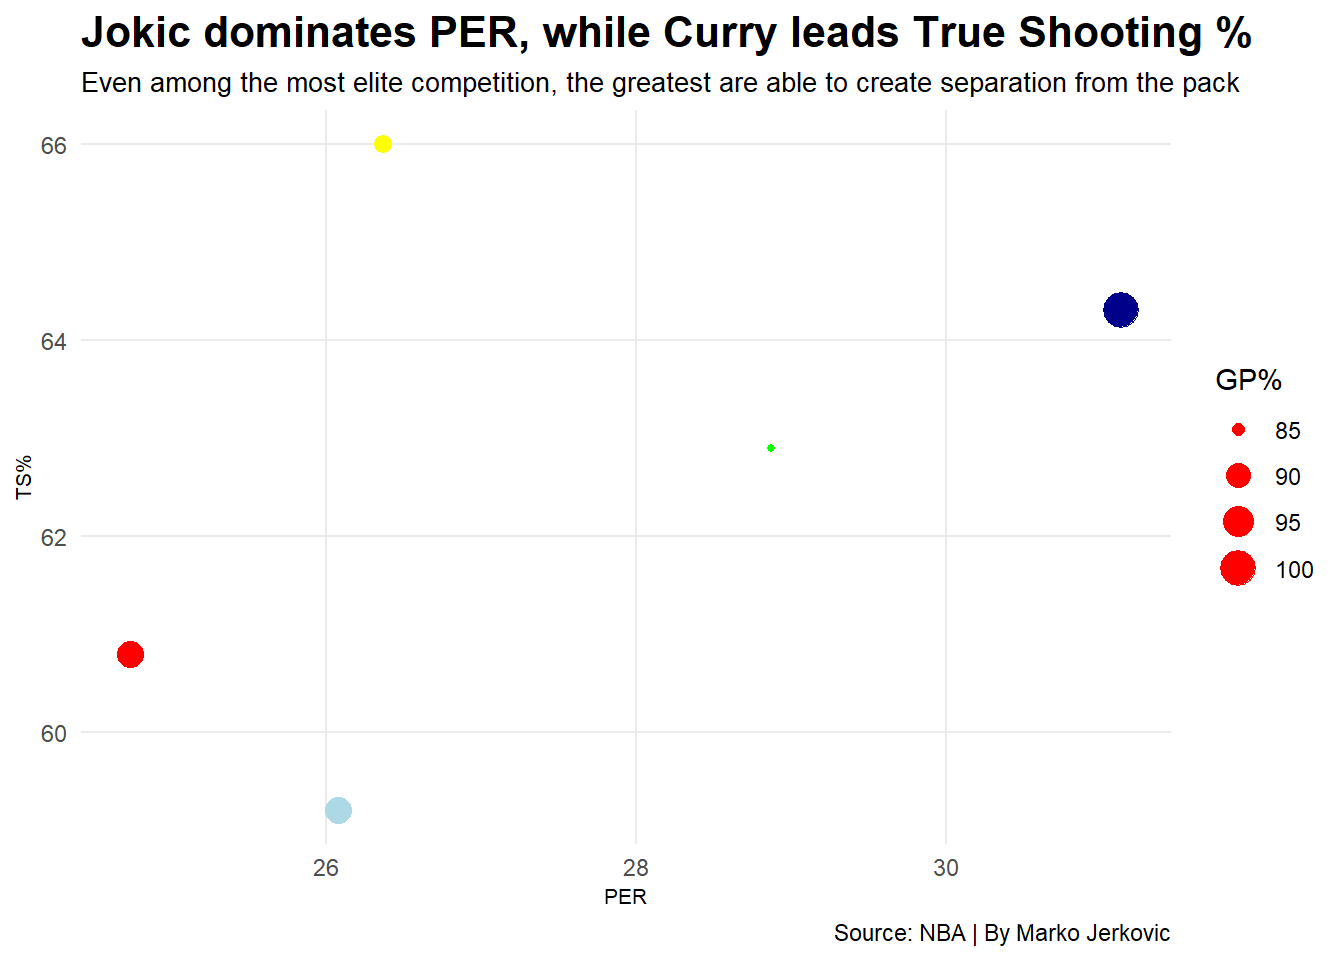
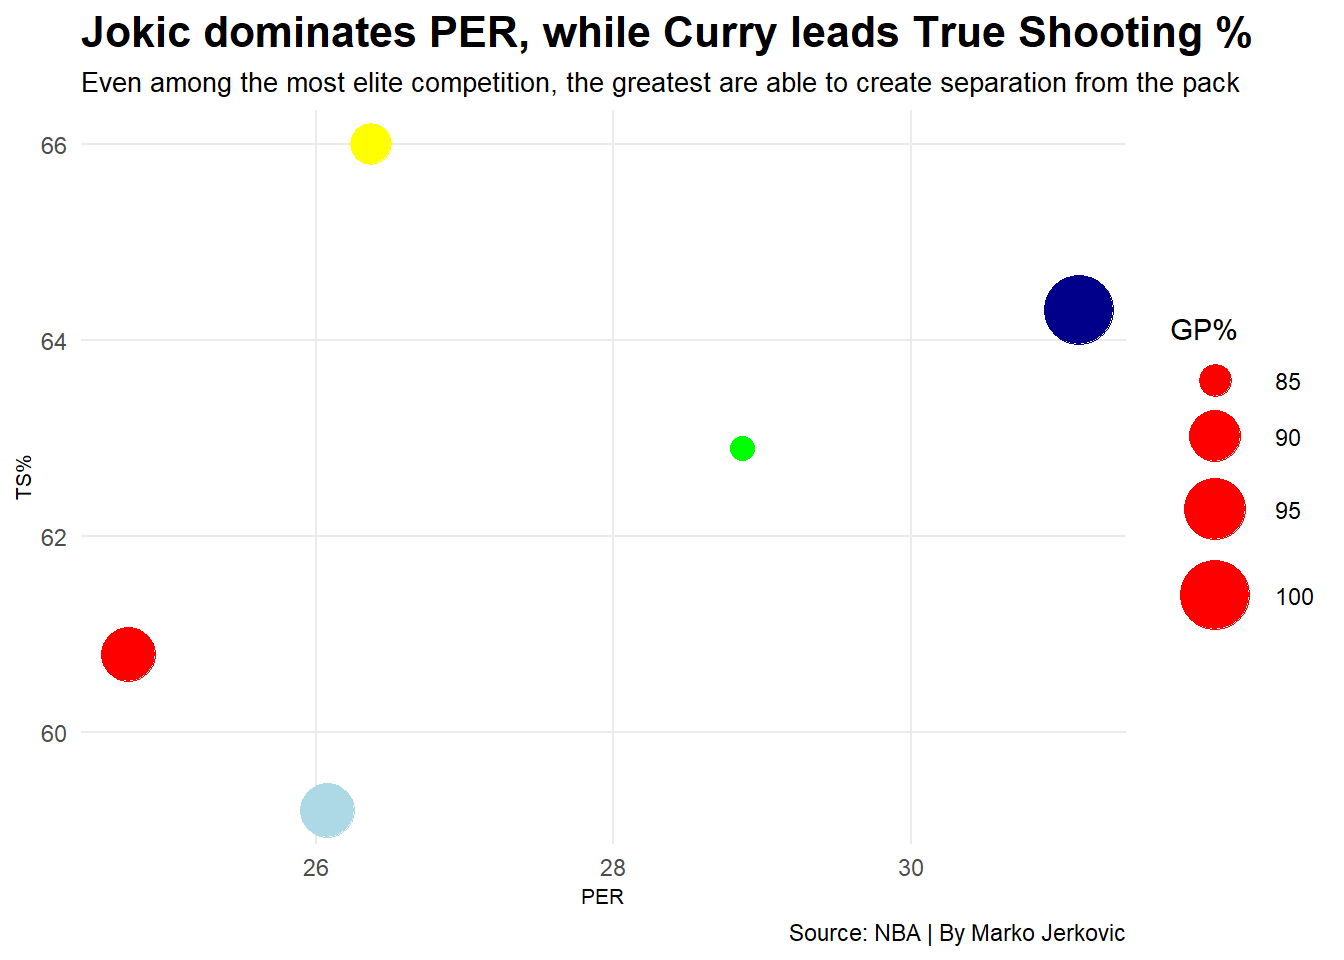
Additions to MVP story.

diff --git a/2021/04/24/who-should-be-the-2021-nba-mvp/index.html b/2021/04/24/who-should-be-the-2021-nba-mvp/index.html
@@ -62,7 +62,7 @@
 
   <article class="article">
     
-    <span class="article-duration">4 min read</span>
+    <span class="article-duration">6 min read</span>
     
 
     <h1 class="article-title">Who Should Be the 2021 NBA MVP?</h1>
@@ -77,7 +77,7 @@
 
 <p>The race for the 2021 NBA MVP is one of the most contentious and complex in recent history with no clear frontrunners and a multitude of prospects. Doing some data analysis and tough decision making I’ll come to a conclusion and maybe you will come to the same one.</p>
 <p>Let’s get started by deciding our shortlist of players we’ll be looking at. This is where things can start to get contentious. It is my belief that the best ability is availability, so I have decided to only include players that have played in 75% of their teams’ games this season.</p>
-<p>This rules out a number of high profile players, such as Lakers duo LeBron James and Anthony, Nets trio Kevin Durant, James Harden and Kyrie Irving, as well as Sixers star Joel Embiid.</p>
+<p>This rules out a number of high profile players, such as Lakers duo LeBron James and Anthony Davis, Nets trio Kevin Durant, James Harden and Kyrie Irving, as well as Sixers star Joel Embiid.</p>
 <p>This means our shortlist of players consists of the following; Giannis Antetokoumpo, Steph Curry, Luka Doncic, Nikola Jokic and Damian Lillard.</p>
 <p>We will be using some more in depth statistics that I’ll briefly summarize. First is Player Efficiency Rating or PER, which is an all-in-one rating system which attempts to boil down a player’s on-court contributions and statistics into one number.</p>
 <p>We will also use True Shooting Percentage or TS%, which is an aggregate percentage that takes into account field goals, 3-point field goals and free throws.</p>
@@ -146,6 +146,7 @@ library(scales)</code></pre>
     data=mvp, 
     aes(x=PER, y=`TS%`, size=`GP%`)
     ) +
+  scale_size(range = c(4,12)) +
   geom_point(
     data=curry,
     aes(x=PER, y=`TS%`, size=`GP%`), color=&quot;yellow&quot;
@@ -174,6 +175,27 @@ labs(title=&quot;Jokic dominates PER, while Curry leads True Shooting %&quot;, s
     panel.grid.minor = element_blank()
     )</code></pre>
 <p><img src="http://markojerkovic.github.io/2021/04/24/who-should-be-the-2021-nba-mvp/index_files/figure-html/unnamed-chunk-10-1.png" width="672" /></p>
+<p>As we can see, Jokic and Curry are clearly ahead of the field. Curry, with this TS% of 66 would be in the top 50 all time in TS% in a season. While the even more impressive stat is Jokic’s 31.13 PER, which would be 12th all-time in a season. Behind four Michael Jordan seasons, three Wilt Chamberlain seasons, two Steph Curry and LeBron James seasons and one Giannis Antetokoumpo season.</p>
+<p>This shows us that despite a number of frontrunners, it truly is just a two horse race for the MVP between Curry and Jokic. Considering this, we’ll take a deep dive and compare some stats between the two, first start with some basic stats; points, assists and rebounds.</p>
+<pre class="r"><code>curry &lt;- c(&quot;Points&quot;=31, &quot;Assists&quot;=5, &quot;Rebounds&quot;=4, 8)
+jokic &lt;- c(&quot;Points&quot;=27, &quot;Assists&quot;=10, &quot;Rebounds&quot;=11)</code></pre>
+<pre class="r"><code>iron(
+ waffle(curry, 
+        rows = 4, 
+        title=&quot;Curry&#39;s Individual Production&quot;, 
+        xlab=&quot;1 square = 1 Point/Assist/Rebound Per Game&quot;, 
+        colors = c(&quot;gold&quot;, &quot;royal blue&quot;, &quot;black&quot;, &quot;white&quot;)
+        ),
+ waffle(jokic, 
+        rows = 4, 
+        title=&quot;Jokic&#39;s Individual Production&quot;, 
+        xlab=&quot;1 square = 1 Point/Assist/Rebound Per Game&quot;, 
+        colors = c(&quot;dark blue&quot;, &quot;yellow&quot;, &quot;dark red&quot;)
+        )
+)</code></pre>
+<p><img src="http://markojerkovic.github.io/2021/04/24/who-should-be-the-2021-nba-mvp/index_files/figure-html/unnamed-chunk-12-1.png" width="672" /></p>
+<p>As we can see, Curry has a slight edge over Jokic when it comes to points per game, however Jokic more than has more than double the assists and rebounds per game than Curry has.</p>
+<p>To illustrate how Jokic is even more dominant over Curry, let’s look at some accumulation stats, where Jokic blows Curry out of the water. Let’s look at total double doubles, triple doubles and Western Conference Player of the Week awards.</p>
 <pre class="r"><code>curry &lt;- c(&quot;Western Conference Player of the Week&quot;=2, &quot;Double Doubles&quot;=8, &quot;Triple Doubles&quot;=0, 60)
 jokic &lt;- c(&quot;Western Conference Player of the Week&quot;=3, &quot;Double Doubles&quot;=52, &quot;Triple Doubles&quot;=15)</code></pre>
 <pre class="r"><code>iron(
@@ -190,7 +212,10 @@ jokic &lt;- c(&quot;Western Conference Player of the Week&quot;=3, &quot;Double 
         colors = c(&quot;dark blue&quot;, &quot;yellow&quot;, &quot;dark red&quot;)
         )
 )</code></pre>
-<p><img src="http://markojerkovic.github.io/2021/04/24/who-should-be-the-2021-nba-mvp/index_files/figure-html/unnamed-chunk-12-1.png" width="672" /></p>
+<p><img src="http://markojerkovic.github.io/2021/04/24/who-should-be-the-2021-nba-mvp/index_files/figure-html/unnamed-chunk-14-1.png" width="672" /></p>
+<p>Once again it’s stunning to see how even in the company of another great player Jokic’s 2021 season stats tower over them. Jokic may not be a flashy player, on a historic franchise, or in a big market, but he should be the consensus MVP for 2021.</p>
+<p>He has amazing statistics that overmatch even the toughest competition, a well above average TS% and he has an all-time great PER that rivals numbers put up by Jordan and Chamberlain. What’s not to like?</p>
+<p>If any MVP voters don’t cast a ballot for Jokic, they clearly haven’t looked at the numbers, because Jokic is far and away the MVP for the 2021 NBA season.</p>
 
     </div>
   </article>
